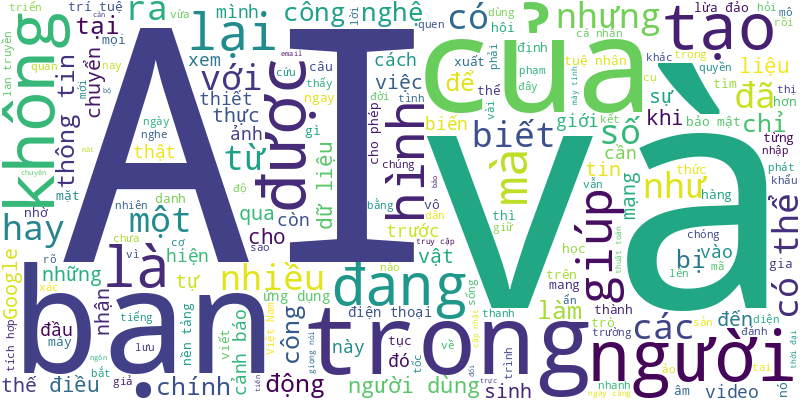
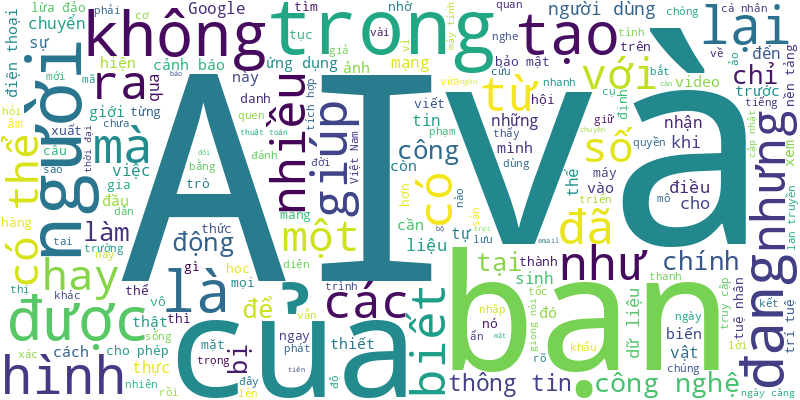
🍀 = 70%

diff --git a/README.md b/README.md
@@ -1,6 +1,13 @@
 # Tuoi Tre RSS 
 
 ## Giáo dục 
+- Việc Trần Xuân Đam trở thành một trong hai thủ khoa toàn quốc của kỳ thi tốt nghiệp THPT 2025 đang là đề tài bàn tán rôm rả ở vùng quê Lang Xá.
+- Một nữ sinh Trường THCS Đăk Mar (xã Đăk Mar, Quảng Ngãi) bị một nhóm nam nữ đánh hội đồng ở rẫy cà phê và quay video truyền cho nhau xem.
+- ThS Phạm Thanh Hà, Trường đại học Ngoại thương, lưu ý để tăng cơ hội trúng tuyển ngành học yêu thích, thí sinh không nên đặt quá ít nguyện vọng, cũng không nên đặt tất cả nguyện vọng vào một trường.
+- Đăng ký nguyện vọng thế nào để vừa theo được ngành yêu thích, vừa có nhiều cơ hội trúng tuyển? Chương trình học ra sao, học phí thế nào... Nhiều phụ huynh, thí sinh đã được chuyên gia tư vấn chi tiết tại Ngày hội lựa chọn nguyện vọng xét tuyển ĐH-CĐ.
+- Nhiều người cho rằng lời cảm ơn chỉ có trẻ con mới cần nói; hoặc chỉ nên nói với người thân quen, nếu cứ nói cảm ơn thì khách sáo quá.
+- Sau bài viết về nhóm học sinh tụ tập ném vỏ chai bia ra đường ở Quảng Trị, nhiều bạn đọc đánh giá cao với cách xử lý buộc phụ huynh cùng con em dọn sạch hiện trường.
+- Trận lốc xoáy quét qua một ngôi trường ở Hà Tĩnh khiến dãy nhà hai tầng bị tốc mái hoàn toàn, ước tính thiệt hại khoảng 300 triệu đồng.
 - Trong tập phát sóng tiếp theo của Khám phá trường học 2025, mời khán giả cùng chương trình tìm hiểu các ngành học tại Trường đại học Yersin Đà Lạt.
 - Tin tức đáng chú ý: Điểm chuẩn tuyển sinh đại học năm 2025 khó đoán; Bộ Y tế yêu cầu cấp cứu tối đa cho nạn nhân vụ lật tàu du lịch; Đề xuất chỉ cơ quan báo chí mới được sản xuất kênh chương trình chuyên quảng cáo...
 - Với phương thức xét điểm thi THPT 2025, điểm sàn các trường đại học dao động từ 15 đến 24.
@@ -44,65 +51,58 @@
 - Mức điểm sàn xét tuyển nhiều ngành của Trường đại học Khoa học tự nhiên (Đại học Quốc gia TP.HCM) năm nay giảm sâu so với năm ngoái.
 - Nguyễn Trần Phúc An, học sinh Trường THPT Vĩnh Long, là thí sinh duy nhất trong hơn 34.000 thí sinh của tỉnh đạt điểm 10 môn tin học trong kỳ thi tốt nghiệp THPT 2025.
 - Thị lực chỉ khoảng 1/10, nữ sinh Nguyễn Thị Thanh Huyền, Trường THPT Lê Hữu Trác, tỉnh Đắk Lắk vẫn lấy hai điểm 10 trong kỳ thi tốt nghiệp THPT 2025.
-- Theo quy định, từ 16-7 thí sinh bắt đầu đăng ký nguyện vọng xét tuyển. Thế nhưng đến nay phần lớn trường đại học chưa công bố điểm sàn.
-- Tuổi Trẻ Online phân tách điểm thi tốt nghiệp THPT, cung cấp cho bạn đọc, thí sinh nhiều thông số tham khảo trước khi đăng ký xét tuyển đại học năm nay.
-- Năm nay Đại học Kinh tế quốc dân sử dụng bốn tổ hợp xét tuyển đều có môn toán và tiếng Anh. Đây là hai môn thi tốt nghiệp THPT có phổ điểm nhiều biến động so với năm ngoái.
-- Không cần học quá nhiều mà học đúng cách, chủ động tực học. Không học thêm bên ngoài, tự ôn, chỗ nào không hiểu thì hỏi thầy cô... là điểm chung của nhiều thủ khoa kỳ thi tốt nghiệp THPT năm nay.
-- 'Trợ lý' AI Otter.ai giúp sinh viên tập trung nghe giảng bài mà không cần ghi chép.
-- Kết quả kỳ thi tốt nghiệp THPT năm 2025 ghi nhận những biến động rõ rệt phổ điểm ở các môn trọng yếu. Các trường đại học dự báo điểm chuẩn ra sao?
-- Nếu xét tuyển một điểm chuẩn chung cho các tổ hợp, thí sinh sử dụng tổ hợp A01, B00 và A01 sẽ có cơ hội ít hơn A00, C00.
 ![Edu](Edu.png)
 ## Thời Sự 
-- Dù hoạt động rất xa, những bão số 3 Wipha có thể khiến thời tiết TP.HCM, Nam Bộ mưa to kèm theo gió lốc mạnh.
-- Dự báo hôm nay 20-7, cường độ bão số 3 (Wipha) tiếp tục mạnh thêm và có thể đạt cấp 12 (118-133km/h), giật cấp 15.
-- Tin tức đáng chú ý: Điểm chuẩn tuyển sinh đại học năm 2025 khó đoán; Bộ Y tế yêu cầu cấp cứu tối đa cho nạn nhân vụ lật tàu du lịch; Đề xuất chỉ cơ quan báo chí mới được sản xuất kênh chương trình chuyên quảng cáo...
-- Giảm xe xăng, dầu, tăng xe điện là chuyện khó khi đụng đến tài sản, thói quen, mưu sinh của người dân. Nhưng khó cũng phải làm, không làm bây giờ sẽ còn chờ bao giờ nữa?
-- Những tiếng khóc nấc của thân nhân người quá cố trong vụ lật tàu Vịnh Xanh 58 khiến nhà tang lễ Bệnh viện Bãi Cháy đã lạnh càng thêm lạnh hơn.
-- Hôm nay 20-7, bão số 3 tiếp tục khiến bắc Biển Đông dông gió dữ dội, còn Nam Bộ do gió tây nam mạnh lên nên mưa nhiều.
-- Anh Mai Xuân Hải đã lặn ra khỏi khoang tàu du lịch Vịnh Xanh 58 (QN 7105) bị lật, sau đó lênh đênh trên biển 3 giờ và được tàu đánh cá cứu.
-- Mong muốn hỗ trợ, chia sẻ nỗi đau với người thân các nạn nhân vụ lật tàu Vịnh Xanh, chiều 19-7, các khách sạn ở Hạ Long, Bãi Cháy (Quảng Ninh) thông báo hỗ trợ phòng ở, bữa ăn miễn phí.
-- Gần 300 người của các lực lượng quân đội, công an, ngư dân cùng hàng chục tàu, xuồng xuyên đêm chạy đua tìm kiếm những nạn nhân mắc kẹt sau vụ lật tàu ở vịnh Hạ Long.
-- Là một trong những người may mắn sống sót khi tàu du lịch lật trên vịnh Hạ Long, chị Đinh Thị Thùy Linh không thể quên được giây phút thoát cửa tử và tìm cách cứu người.
-- Tàu 711 của Hải đoàn 129 Hải quân đã vượt sóng lớn, gió mạnh do ảnh hưởng của bão số 3 (Wipha) để  hoàn thành nhiệm vụ đưa 2 ngư dân bị bệnh nặng trên biển từ đảo Nam Yết, đặc khu Trường Sa về TP.HCM an toàn.
-- Thủ tướng Phạm Minh Chính vừa ký công điện chỉ đạo khẩn trương tìm kiếm cứu nạn nhanh nhất các nạn nhân gặp nạn trong vụ lật tàu dịch vụ trên vịnh Hạ Long, Quảng Ninh, chiều 19-7.
-- Ủy ban Thường vụ Quốc hội đã ban hành nghị quyết về việc cho thôi làm nhiệm vụ đại biểu Quốc hội khóa XV đối với ông Đỗ Đức Duy.
-- Thực hiện chương trình làm việc toàn khóa, Hội nghị lần thứ 12 Ban Chấp hành Trung ương Đảng khóa XIII họp từ ngày 18-7 đến ngày 19-7 tại thủ đô Hà Nội.
-- Tại Hà Nội, chiều 19-7, mưa kèm gió lớn khiến cây cối, cột điện đổ đè lên nhiều ô tô đang di chuyển, thậm chí một số khu chung cư bị sập trần thạch cao vì gió lùa.
-- Tại xã Nghĩa Hành, tỉnh Quảng Ngãi, nhiều hộ dân phản ánh họ phải nộp tiền cho đơn vị thu gom heo chết mới được đưa heo đi xử lý.
-- Theo Quân chủng Hải quân, tính đến 7h sáng nay 20-7, các lực lượng chức năng đã cứu được 10 người, có 37 người chết, vẫn còn 5 người vẫn mất tích.
-- Gió lớn kèm mưa đá xảy ra ở tỉnh Quảng Ninh gây khó khăn cho các phương tiện tham gia giao thông.
-- Sau 2 ngày (18, 19-7) làm việc khẩn trương, nghiêm túc, dân chủ, trách nhiệm cao, Hội nghị lần thứ 12 Ban Chấp hành Trung ương Đảng khóa XIII đã hoàn thành toàn bộ chương trình đề ra và bế mạc chiều 19-7.
-- Sau 2 ngày (18, 19-7) làm việc khẩn trương, nghiêm túc, dân chủ, trách nhiệm cao, Hội nghị lần thứ 12 Ban Chấp hành Trung ương Đảng khóa XIII đã hoàn thành toàn bộ chương trình đề ra và bế mạc chiều 19-7.
-- Hơn 200 cán bộ, chiến sĩ Công an tỉnh An Giang đã ra quân tổ chức dọn dẹp, vệ sinh và thay hoa mới cho hơn 9.000 mộ liệt sĩ trong tỉnh, để tri ân những người có công với đất nước.
-- Hàng ngàn hộ chăn nuôi heo ở Nghệ An bị thiệt hại nặng nề, khi đàn heo mắc dịch tả heo châu Phi phải tiêu hủy.
-- Bộ Chính trị thống nhất chủ trương đầu tư xây dựng các trường phổ thông nội trú liên cấp tiểu học và trung học cơ sở tại 248 xã biên giới đất liền.
-- Mới đây, Thủ tướng đã yêu cầu 15 địa phương có tuyến đường sắt cao tốc Bắc - Nam đi qua phải chạy đua với thời gian, khởi công các dự án giải phóng mặt bằng (GPMB) liên quan trước ngày 19-8-2025.
-- TP.HCM đang điều chỉnh dần hệ thống biển chỉ dẫn theo tên hành chính mới, đảm bảo đồng bộ và thuận tiện cho người dân.
-- Đó là thông tin từ lãnh đạo Tổng công ty Đầu tư phát triển đường cao tốc Việt Nam (VEC) về công tác phối hợp, điều tiết tình hình giao thông trên cao tốc TP.HCM - Long Thành - Dầu Giây trong những ngày tới.
-- Phòng cảnh sát giao thông (PC08) Công an TP.HCM vừa thông báo một số thông tin người dân TP.HCM cần lưu ý khi đi lại cuối tuần.
-- Thủ tướng Phạm Minh Chính trao quyết định giao quyền bộ trưởng Bộ Nông nghiệp và Môi trường cho ông Trần Đức Thắng.
-- Kiểm tra thực tế, bên cạnh nhiều hộ dân chấp hành tốt, chính quyền địa phương phường Bình Trưng (TP.HCM) cũng ghi nhận nhiều cư dân chung cư Bình Trưng vẫn còn lắp lồng sắt bít bùng, để vật dụng cản trở lối thoát hiểm.
-- Trận mưa lớn bất ngờ vào chiều tối 5-7 làm nhiều đường phố ở Đà Nẵng chìm trong nước giữa mùa hè, khiến người dân bức xúc.
-- Nam thanh niên ở Hà Nội cùng nhóm bạn ra khu vực chân đập thủy điện Phiêng Lúc (tỉnh Lai Châu) để tắm, không may bị chuột rút và chìm dần.
-- Trong lúc chữa cháy  tại ngõ 289 Trương Định, một cán bộ Phòng Cảnh sát phòng cháy chữa cháy và cứu nạn cứu hộ, bị ngạt khói.
-- Người bệnh tham gia bảo hiểm y tế sẽ được thanh toán tiền thuốc nếu bệnh viện bị thiếu thuốc? Cần làm gì để được thanh toán đúng và đủ?
-- Đắk Lắk ghi nhận một bệnh nhân 19 tuổi, quê xã Nâm Nung, tỉnh Lâm Đồng tử vong do bị sốt xuất huyết.
-- Khoảng sáng nay 19-7 bão Wipha sẽ đi vào Biển Đông và trở thành cơn bão số 3 trong năm nay.
-- Ban Chỉ đạo của Chính phủ yêu cầu bảo đảm kinh phí với nhiệm vụ tinh giản biên chế, giải quyết chế độ cho cán bộ, công chức nghỉ việc.
-- Ngọn lửa bùng lên dữ dội ở bên trong khu vực kho xưởng rộng hàng trăm mét vuông tại ngõ 389 Trương Định (phường Tương Mai, Hà Nội).
-- Hôm nay 19-7, thời tiết Bắc Bộ nắng nóng ban ngày sau đó chuyển mưa từ đêm, Nam Bộ mưa dông.
-- Một số tin tức đáng chú ý: Xây dựng Hòa Bình chậm trả lãi trái phiếu; Lộ trình nâng hạng thị trường chứng khoán Việt Nam tiến thêm bước quan trọng; Tỉ lệ sống của trẻ sinh non tăng vọt từ 58% lên 85% nhờ kỹ thuật mới...
-- Xưởng nhựa ở xã Mỏ Cày, Quảng Ngãi bốc cháy trong đêm. Cột lửa bốc cao cả trăm mét. Cảnh sát phòng cháy chữa cháy đang nỗ lực dập tắt đám cháy.
-- Người dân xóm Gò Rạch và Kà La ở Quảng Ngãi đang sống trong cảnh điện thiếu, sóng chập chờn. Bật tivi không lên, nấu nồi cơm không chín. Trong khi công trình tiền tỉ, kéo điện về xóm làm từ năm 2021 đến nay chưa xong.
-- Từ đầu năm đến nay, xã Thanh Tùng (tỉnh Cà Mau) đã xảy ra 23 vụ sạt lở đất, làm hư hỏng nhà dân, đường giao thông và nhiều công trình dân sinh, gây thiệt hại gần 1,7 tỉ đồng.
-- Phó chủ tịch UBND tỉnh Phú Thọ Nguyễn Huy Ngọc yêu cầu các sở, ngành, địa phương nắm bắt, xử lý 'cò mồi' làm thủ tục đất đai tại trung tâm hành chính công tỉnh, xã sau khi vận hành chính quyền hai cấp.
-- Dự báo sau khi vào Biển Đông, cường độ bão Wipha có thể đạt cấp 12 (118 - 133km/h), giật cấp 15. Nhiều khả năng bão sẽ ảnh hưởng trực tiếp đất liền Việt Nam và gây mưa lớn ở Bắc Bộ từ 21-7.
-- Đất nền bị lún khiến cần cẩu đang hạ cống bê tông ở công trường cao tốc Biên Hòa - Vũng Tàu (đoạn qua Đồng Nai) đổ sập, đè một người bị thương và tử vong sau đó.
-- Tối 18-7, thông tin từ UBND tỉnh Đồng Tháp cho biết có một con sếu đã tử vong do không thích nghi được với môi trường, riêng 5 con sếu còn lại khỏe mạnh, cơ bản thích nghi với môi trường khu bảo tồn của Vườn quốc gia Tràm Chim.
-- Quảng trường ngàn tỉ tại trung tâm TP Đà Nẵng đang thu hút sự quan tâm lớn của người dân và dư luận. Khi nào dự án chính thức triển khai?
-- Bộ Văn hóa, Thể thao và Du lịch vừa có văn bản gửi UBND TP Huế góp ý kế hoạch phục chế bảo vật quốc gia ngai vàng triều Nguyễn bị khách tham quan bẻ gãy hồi tháng 5 vừa qua.
-- Còn ông Lê Minh Cường giữ chức giám đốc Ban quản lý dự án đầu tư xây dựng công trình giao thông và nông nghiệp TP Cần Thơ. Mỗi ban có 9 phó giám đốc, gồm các cán bộ từ Hậu Giang, Sóc Trăng và Cần Thơ cũ.
-- Ngày 18-7, người đổ đất lấp đường thoát nước lũ lụt vùng tây Nha Trang và Diên Khánh đã đào múc lại đất, chuyển đi nơi khác để khôi phục hiện trạng theo yêu cầu của phường Tây Nha Trang, tỉnh Khánh Hòa.
+- Để đáp ứng nhu cầu của người dân và giải quyết dứt điểm hồ sơ chưa sát hạch còn tồn đọng, Phòng CSGT TP.HCM tổ chức tăng ca liên tục, triển khai các ca sát hạch kéo dài từ 7h30 sáng đến 21h hàng ngày, kể cả ngày nghỉ.
+- UBND xã có cần thực hiện đổi từ 'ấp' thành 'thôn' theo quy định mới trước khi thực hiện quy định chỉ định trưởng ấp hay không?
+- Trước dự báo chịu ảnh hưởng cơn bão số 3 (bão Wipha), Nghệ An đã cấm tàu thuyền ra khơi từ sáng 21-7. Nhiều hồ thủy điện cũng chủ động xả nước, đảm bảo an toàn hồ đập.
+- Dông lốc ập đến, chỉ trong tích tắc con tàu Vịnh Xanh 58 QN-7105 bị lật úp giữa vịnh Hạ Long, Quảng Ninh. 49 người gồm cả thuyền viên và du khách đều bị nhấn chìm.
+- Tin tức đáng chú ý: Một doanh nghiệp bất động sản liên tục giải trình vì cổ phiếu tăng nóng; Công ty cổ phần Vận tải biển Sài Gòn bị phạt vì 'ém' nhiều tài liệu; Mức hưởng trợ cấp thai sản mới nhất...
+- Hôm nay 21-7, thời tiết Bắc Bộ mưa to đến rất to, Nam Bộ mưa rào và dông, Trung Bộ ngày nắng nhưng tối mưa rào.
+- Các địa phương kiểm soát việc đi lại, hạn chế người dân ra đường trong thời gian bão số 3 (Wipha) đổ bộ, dông lốc trước bão.
+- Lối vào cao tốc TP.HCM - Long Thành - Dầu Giây bị đóng, dòng xe từ Lâm Đồng về TP.HCM đổ dồn qua quốc lộ 1 khiến tuyến đường kẹt cứng hơn 10km.
+- Thủ tướng Chính phủ Phạm Minh Chính dẫn đầu đoàn công tác Bộ Quốc phòng thăm, tặng quà nhiều gia đình thương binh tại An Giang nhân kỷ niệm 78 năm Ngày Thương binh liệt sĩ 27-7.
+- Dự báo khi xuống vịnh Bắc Bộ ngày mai, bão số 3 có khả năng mạnh trở lại cấp 12, giật cấp 15.
+- Ngày 20-7, Chủ tịch UBND TP Hà Nội Trần Sỹ Thanh ký, ban hành công điện gửi các sở, ngành và các phường, xã về việc chủ động, tập trung ứng phó bão số 3.
+- Trong số các nạn nhân vụ tàu du lịch bị lật ở Hạ Long có ba người cùng gia đình gồm anh Lương Văn Yên (40 tuổi, quê xã Tân Yên, Bắc Ninh) và hai con nhỏ (11 tuổi và 6 tuổi).
+- Ban Chỉ huy phòng, chống thiên tai, tìm kiếm cứu nạn và phòng thủ dân sự tỉnh Thanh Hóa đã có quyết định cấm biển từ 8h ngày 21-7.
+- Thay cho niềm vui mừng tân gia, trong căn nhà mới xây ở thôn Hòa Đa, xã Tuy An Nam, Đắk Lắk giờ là những tiếng nấc nghẹn ngào khi chỉ trong một buổi sáng ba người đã ra đi.
+- Phòng Cảnh sát giao thông Công an TP.HCM công khai số điện thoại trưởng phòng - đại tá Trần Trung Hiếu.
+- Cơn dông ập đến, trong tích tắc con tàu Vịnh Xanh 58 bị lật úp giữa vịnh Hạ Long, Quảng Ninh.
+- Ảnh hưởng dông lốc xảy ra tối qua, trên địa bàn tỉnh Hà Tĩnh đã ghi nhận thiệt hại về người và tài sản.
+- Trong phòng khách là bốn di ảnh của hai vợ chồng cùng hai con tử nạn trong vụ lật tàu. Nhiều người đến thăm không khỏi rơi nước mắt.
+- 30 du khách và 4 thuyền viên trên tàu du lịch đã nhanh chóng mặc áo phao nhảy xuống biển trước khi tàu bị chìm, sau đó được các tàu cá lớn cứu.
+- Lực lượng chức năng vẫn đang duy trì gần 30 mũi tìm kiếm 4 nạn nhân còn mất tích trong vụ lật tàu du lịch trên vịnh Hạ Long, Quảng Ninh.
+- Theo Ủy ban MTTQ Việt Nam TP Hà Nội, ban đầu xác định có 17 người tử vong và 1 người bị thương là dân Hà Nội trong vụ lật tàu xảy ra tại vịnh Hạ Long chiều 19-7.
+- Để ứng phó với bão số 3 (Wipha), tỉnh Thanh Hóa sẵn sàng sơ tán 170.000 dân. Tỉnh Quảng Ninh đã cấm biển từ 11h trưa nay.
+- Chìm tàu cá trên vùng biển Quảng Trị, 7 ngư dân trên tàu được cứu nhờ một tàu cá của ngư dân địa phương đang đánh bắt gần đó.
+- Cảnh sát giao thông cùng các đơn vị liên quan đã tiến hành khảo sát thực tế toàn tuyến cao tốc Hòa Liên - Túy Loan (Đà Nẵng) đang thi công và đề nghị chủ đầu tư khẩn trương khắc phục các bất cập tiềm ẩn nguy cơ cao tai nạn giao thông.
+- Cây rừng bất ngờ đổ xuống đường, đè trúng ô tô đang di chuyển qua đèo Bảo Lộc (quốc lộ 20, tỉnh Lâm Đồng).
+- Nhiều bạn đọc Tuổi Trẻ Online cho rằng cần lắp đặt thêm camera giám sát, xử phạt lấn chiếm lòng đường, vỉa hè ở TP.HCM.
+- Những ngày gần đây, tại kênh mương qua các xã Phú Hòa 1, 2 (Đắk Lắk) có nhiều xác heo chết. Điều này không chỉ gây ô nhiễm môi trường mà còn có nguy cơ làm bùng phát dịch tả heo châu Phi.
+- Dự báo bão số 3 (Wipha) ảnh hưởng trực tiếp Quảng Ninh, Hải Phòng. Còn ven biển tỉnh Hưng Yên, Ninh Bình, Thanh Hóa chịu tác động gió bão mạnh nhất.
+- Đề xuất ngưng ký hợp đồng với shipper, tài xế công nghệ chạy xe xăng; 'Cho thuê bụng'... là chủ đề hút nhiều bạn đọc phản hồi tuần qua.
+- Sau khi luật mới không cho kinh doanh trên vỉa hè (hiệu lực từ năm 2025), TP.HCM tính toán xây dựng đề án quản lý vỉa hè mới phù hợp, làm cơ sở triển khai sau khi sáp nhập địa giới hành chính.
+- Xã Hồng Vân (Hà Nội) xác định có 6 người tử vong trong vụ lật tàu ở vịnh Hạ Long hôm 19-7. Chính quyền UBND xã đã tới thăm hỏi, hỗ trợ khẩn cấp gia đình các nạn nhân.
+- Trưa 20-7, cơn mưa kéo dài kèm theo gió giật, dông lốc mạnh quét qua nhiều khu vực ở Đồng Nai khiến hàng loạt cây xanh ngã đổ, một số nhà tốc mái. Chưa ghi nhận thương vong về người.
+- Thủ tướng yêu cầu có chính sách đãi ngộ đặc biệt với nhân tài, chuyên gia hàng đầu, các tổng công trình sư, kiến trúc sư trưởng để triển khai các hệ thống chiến lược, các sáng kiến đột phá.
+- Người dân phát hiện một con cá sấu nhỏ dưới kênh Nước Đen, phường Bình Hưng Hòa, TP.HCM. Ngày 20-7, lực lượng chức năng đã đến khu vực trên để tìm kiếm.
+- Cơ quan chức năng cho biết do thời tiết xấu đã không phát hiện ngay vụ lật tàu. Sau khi nhận tin, tàu cứu hộ đã có mặt chỉ trong 10 phút.
+- UBND TP Đà Nẵng vừa ban hành công điện triển khai các biện pháp ứng phó với bão số 3, trong đó yêu cầu căn cứ diễn biến của bão, chủ động quyết định việc cấm biển đối với tàu cá, tàu vận tải, tàu du lịch.
+- Rất nhiều bạn đọc phản hồi trên Tuổi Trẻ Online, cho rằng cần làm gấp metro để kết nối giao thông với sân bay Long Thành.
+- Trong lúc chở hai cháu bằng xe máy, bà Nguyễn Thị B. (63 tuổi, trú thôn Hòa Đa, xã Tuy An Nam, Đắk Lắk) tông vào đuôi xe tải khiến cả 3 bà cháu thiệt mạng.
+- Xe giường nằm chạy sai hành trình, đón, trả khách không đúng nơi quy định vẫn diễn ra 'bát nháo' ở nhiều nơi.
+- UBND tỉnh Hưng Yên yêu cầu hoàn thành việc di dời người dân và lao động ven biển vào nơi an toàn trước 17h ngày 21-7. Đồng thời địa phương dự kiến thực hiện lệnh cấm biển từ 18h ngày 20-7.
+- 40 tỉ đồng là tổng giá trị hàng hóa mà Công an TP.HCM đã thu giữ trong cao điểm đấu tranh chống hàng giả, hàng lậu, gian lận thương mại.
+- Ngay khi triển khai mô hình chính quyền địa phương hai cấp, lãnh đạo Đảng và Nhà nước nhiều lần nhấn mạnh phải vận hành theo hướng chuyển từ 'quản lý' sang 'phục vụ và đổi mới, sáng tạo'.
+- Trưa 20-7, mưa dông lớn xảy ra trên diện rộng ở TP.HCM, cây xanh trên nhiều tuyến đường bị gãy nhánh, ngã đổ.
+- Ngày 20-7, một lãnh đạo UBND xã Cổ Đạm (Hà Tĩnh) cho biết lực lượng chức năng đang phối hợp với người dân tổ chức tìm kiếm một ngư dân bị chìm thuyền, mất tích trên biển.
+- Ngày 20-7, đại diện Phòng cảnh sát giao thông (PC08) Công an TP.HCM cho biết Phòng cảnh sát giao thông tăng cường đảm bảo trật tự an toàn giao thông, ứng phó nguy cơ mưa lớn, chủ động phòng chống thiên tai.
+- Sáng 20-7, cường độ bão số 3 (Wipha) mạnh lên đầu cấp 12 (118-133km/h), giật cấp 15. Lúc 10h sáng nay, tâm bão đang cách Móng Cái (Quảng Ninh) khoảng 680km.
+- Sau một đêm tìm kiếm người mất tích và trục vớt tàu Vịnh Xanh QN-7105, sáng nay lực lượng chức năng đã lai dắt tàu về khu vực Nhà máy đóng tàu Hạ Long để phục vụ công tác khám nghiệm, điều tra nguyên nhân tàu lật.
+- Xã Tu Mơ Rông, Quảng Ngãi vừa phát đi thông báo không nhận hoa chúc mừng nhân dịp Đại hội Đảng bộ xã. Thay vào đó kêu gọi ủng hộ cây giống, phân bón… để hỗ trợ đồng bào Xơ Đăng phát triển kinh tế.
+- Cảnh sát phòng cháy, chữa cháy và cứu nạn cứu hộ - Công an tỉnh Quảng Ngãi lao xuống sông Đăk Bla, vật lộn với dòng nước xiết cứu sống 2 anh em ruột bị đuối nước.
+- Ngày 20-7, mạng xã hội lan truyền clip ghi cảnh nhóm người cự cãi với cảnh sát giao thông trên đường khi bị xử lý vi phạm nồng độ cồn. Sau đó một người đàn ông cầm ghế tấn công cảnh sát.
 ![New](News.png)
 ## Nhịp sống số 
 - Theo chuyên gia bảo mật, trước đây email lừa đảo dễ dàng bị phát hiện do cách diễn đạt không tự nhiên, nhưng sự tiến bộ của AI đã giúp tạo ra các câu tự nhiên, cho phép tin tặc vượt qua rào cản ngôn ngữ.
